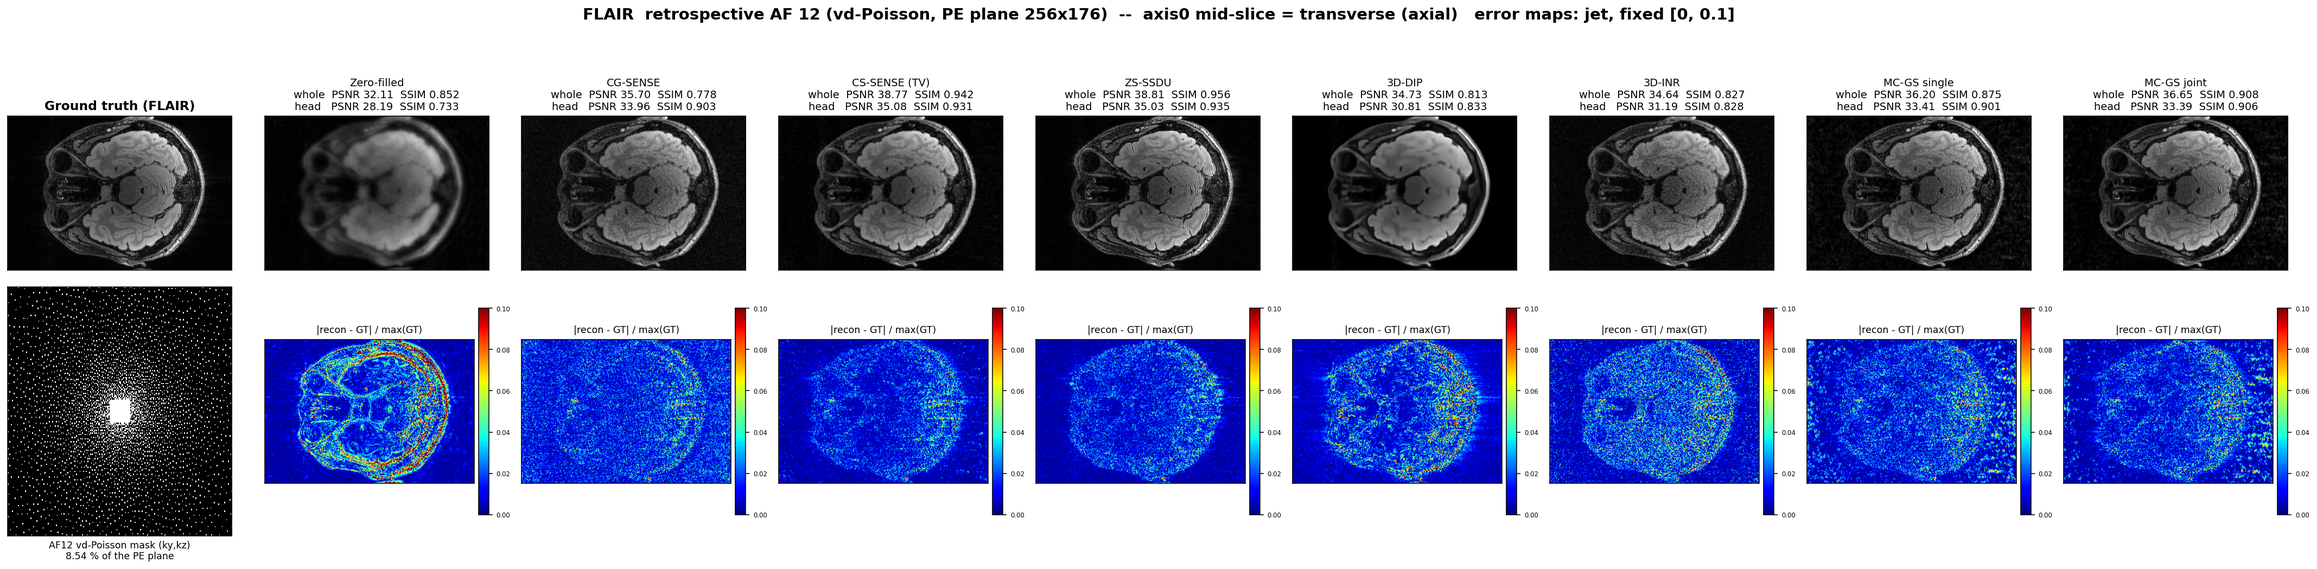
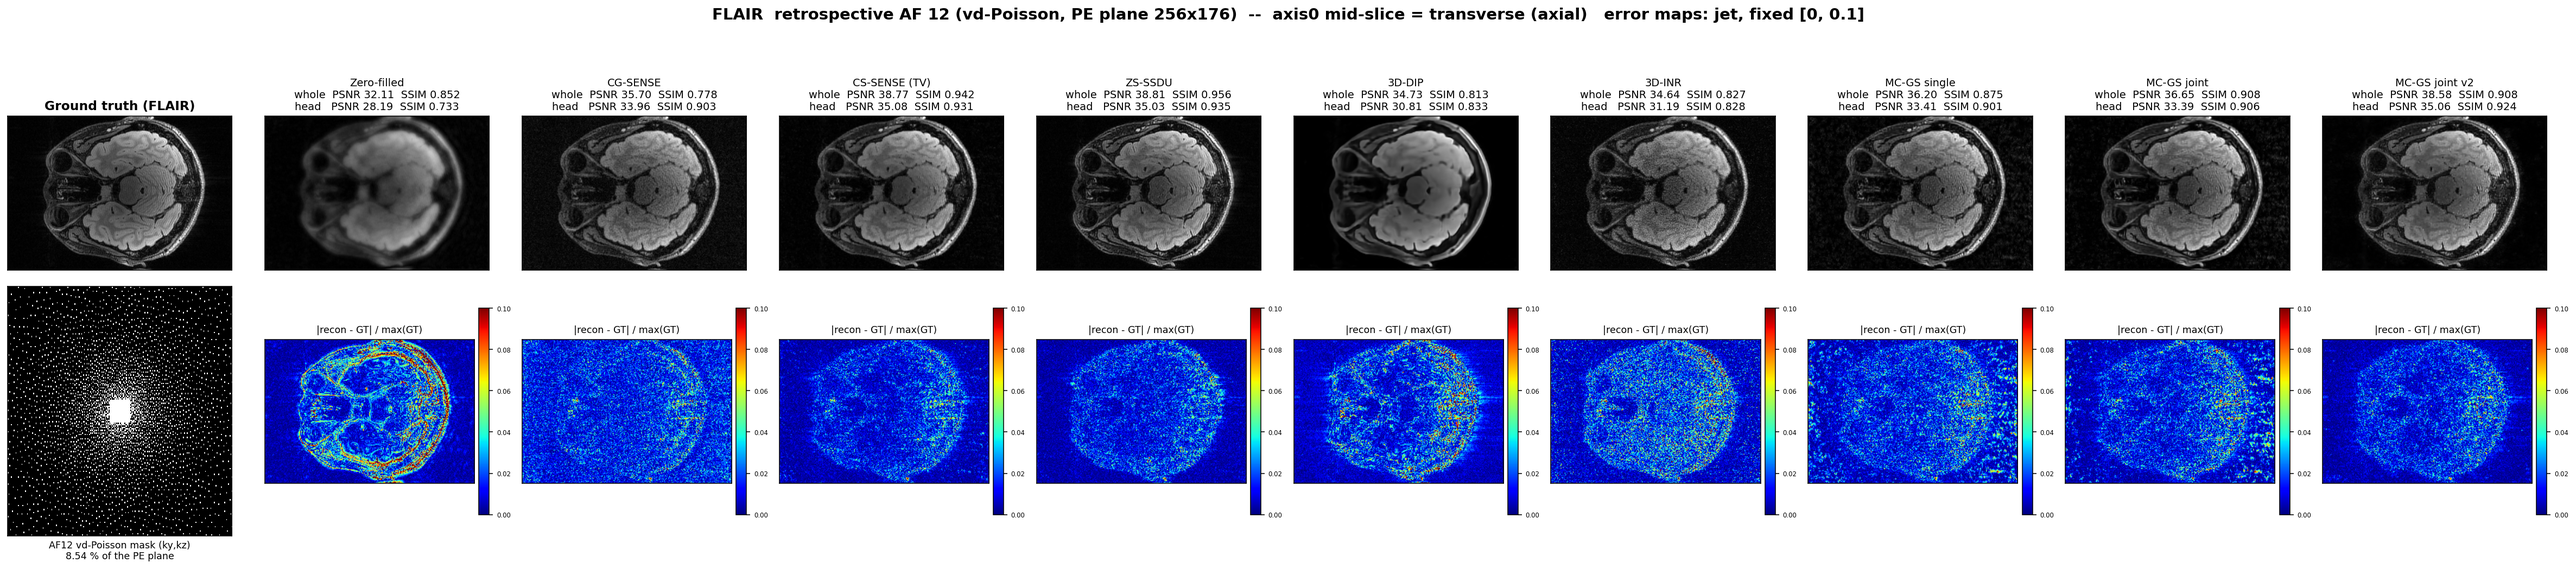
t1flair v3: transfer check of the T1+T2 autoresearch recipe on the held-out subject - second on head PSNR (T1 35.520 vs CS-SENSE 35.762, FLAIR 35.056 vs 35.084), first on head HFEN; density rule pre-registered

diff --git a/t1flair_af12_v3_jiangyizhou/scripts/summarize.py b/t1flair_af12_v3_jiangyizhou/scripts/summarize.py
@@ -18,9 +18,10 @@ ARC = Path("/data0/congcong/code/GS/Paired_ARC_GS_general_framework/results_arc"
 
 COLS = ["psnr", "ssim", "nmse", "hfen", "head_psnr", "head_ssim", "head_hfen",
         "sharp", "grain", "grain_ratio"]
-ORDER = ["zf", "cgsense", "cssense", "zsssdu", "dip", "inr", "gs_single", "gs_joint"]
+ORDER = ["zf", "cgsense", "cssense", "zsssdu", "dip", "inr", "gs_single", "gs_joint", "gs_joint_v2"]
 LABEL = {"zf": "ZF", "cgsense": "CG-SENSE", "cssense": "CS-SENSE", "zsssdu": "ZS-SSDU",
-         "dip": "3D-DIP", "inr": "3D-INR", "gs_single": "MC-GS single", "gs_joint": "MC-GS joint"}
+         "dip": "3D-DIP", "inr": "3D-INR", "gs_single": "MC-GS single", "gs_joint": "MC-GS joint",
+         "gs_joint_v2": "MC-GS joint v2"}
 
 
 def main():
@@ -41,6 +42,13 @@ def main():
         for ch, name in (("plain", d.get("plain_name", "T1")), ("contrast", d.get("contrast_name", "FLAIR"))):
             rows.append({"contrast": name, "method": "gs_joint",
                          **{k: d[ch].get(k) for k in COLS}, "seconds": None})
+    # v2 = autoresearch recipe (framework repo autoresearch_t1t2.md), transfer check, 4000 iters
+    vp = ARC / "ar5_tf_jyz_t1flair_score.json"
+    if vp.exists():
+        d = json.load(open(vp))
+        for ch, name in (("plain", d.get("plain_name", "T1")), ("contrast", d.get("contrast_name", "FLAIR"))):
+            rows.append({"contrast": name, "method": "gs_joint_v2",
+                         **{k: d[ch].get(k) for k in COLS}, "seconds": d.get("elapsed_s")})
     for c in ("T1", "FLAIR"):
         sp = ARC / f"t1flair_v3_af12_single_{c}_score.json"
         if sp.exists():

diff --git a/t1flair_af12_v3_jiangyizhou/scripts/make_figures.py b/t1flair_af12_v3_jiangyizhou/scripts/make_figures.py
@@ -14,7 +14,7 @@ from pathlib import Path
 
 ap = argparse.ArgumentParser()
 ap.add_argument("--contrast", required=True, choices=["T1", "FLAIR"])
-ap.add_argument("--methods", default="zf,cgsense,cssense,zsssdu,dip,inr,gs_single,gs_joint")
+ap.add_argument("--methods", default="zf,cgsense,cssense,zsssdu,dip,inr,gs_single,gs_joint,gs_joint_v2")
 ap.add_argument("--out", default=None)
 args = ap.parse_args()
 
@@ -30,7 +30,7 @@ FIGS.mkdir(parents=True, exist_ok=True)
 ANAT = {0: "transverse (axial)", 1: "coronal", 2: "sagittal"}   # adjudicated 2026-09-09, see README
 LABEL = {"zf": "Zero-filled", "cgsense": "CG-SENSE", "cssense": "CS-SENSE (TV)",
          "zsssdu": "ZS-SSDU", "dip": "3D-DIP", "inr": "3D-INR",
-         "gs_single": "MC-GS single", "gs_joint": "MC-GS joint"}
+         "gs_single": "MC-GS single", "gs_joint": "MC-GS joint", "gs_joint_v2": "MC-GS joint v2"}
 
 
 def load(method, c):

diff --git a/t1flair_af12_v3_jiangyizhou/scripts/extract_gs_volumes.py b/t1flair_af12_v3_jiangyizhou/scripts/extract_gs_volumes.py
@@ -19,7 +19,9 @@ ARC = Path("/data0/congcong/code/GS/Paired_ARC_GS_general_framework/results_arc"
 JOBS = [("t1flair_v3_af12_joint", "gs_joint", [("recT1", "T1"), ("recFL", "FLAIR")],
          [("gtT1", "T1"), ("gtFL", "FLAIR")], [("zfT1", "T1"), ("zfFL", "FLAIR")]),
         ("t1flair_v3_af12_single_T1", "gs_single", [("recT1", "T1")], [], []),
-        ("t1flair_v3_af12_single_FLAIR", "gs_single", [("recT1", "FLAIR")], [], [])]
+        ("t1flair_v3_af12_single_FLAIR", "gs_single", [("recT1", "FLAIR")], [], []),
+        # v2 = the autoresearch recipe found on the T1+T2 pair, applied here UNCHANGED as a transfer check
+        ("ar5_tf_jyz_t1flair", "gs_joint_v2", [("recT1", "T1"), ("recFL", "FLAIR")], [], [])]
 
 
 def main():

diff --git a/t1flair_af12_v3_jiangyizhou/README.md b/t1flair_af12_v3_jiangyizhou/README.md
@@ -28,6 +28,7 @@ whole-volume SSIM misleads on this data).
 |---|---|---|---|---|---|
 | CS-SENSE | **39.395** | 0.9523 | **35.762** | **0.9429** | 2 min |
 | ZS-SSDU | 39.357 | **0.9577** | 35.724 | 0.9422 | 22 min |
+| MC-GS joint v2 (transfer check, see below) | 38.949 | 0.9194 | 35.520 | 0.9321 | 42 min |
 | MC-GS joint | 36.349 | 0.8703 | 34.160 | 0.9169 | 29 min |
 | MC-GS single | 35.529 | 0.8297 | 33.799 | 0.9032 | 29 min |
 | CG-SENSE | 35.082 | 0.7562 | 33.514 | 0.8981 | 2 min |
@@ -40,6 +41,7 @@ whole-volume SSIM misleads on this data).
 | method | PSNR | SSIM | head PSNR | head SSIM | wall |
 |---|---|---|---|---|---|
 | CS-SENSE | 38.773 | 0.9416 | **35.084** | 0.9307 | 2 min |
+| MC-GS joint v2 (transfer check, see below) | 38.584 | 0.9082 | 35.056 | 0.9238 | 42 min |
 | ZS-SSDU | **38.807** | **0.9563** | 35.034 | **0.9353** | 36 min |
 | CG-SENSE | 35.704 | 0.7782 | 33.957 | 0.9032 | 2 min |
 | MC-GS single | 36.204 | 0.8749 | 33.409 | 0.9006 | 29 min |
@@ -88,6 +90,28 @@ suppression by the explicit representation.
 
 Every MC-GS run in all three topics is a cold start (the frozen warm-start cloud belongs to the
 old FOV). That is the one untested lever left for the 1.3 to 1.7 dB gap to CS-SENSE.
+
+## MC-GS joint v2 — the T1+T2 recipe transferred unchanged: second, not first (2026-09-10)
+
+The recipe the autoresearch loop found on huangyuwei's T1+T2 pair (framework repo
+`autoresearch_t1t2.md`; "MC-GS joint v2" in the T1+T2 README: points drawn inside the ZF head
+support, 3-NN spacing scales, edge-TV kappa from the ZF image, 1.2M points) was applied here
+**without changing a knob**, as the held-out-subject check (`ar5_tf_jyz_t1flair`, 4000 iters).
+
+| channel | v2 head PSNR | best other arm | over the original joint arm | v2 head SSIM / best | v2 head HFEN / best |
+|---|---|---|---|---|---|
+| T1 | 35.520 | CS-SENSE 35.762 | +1.36 dB | 0.9321 / 0.9429 | **0.1056** / 0.1208 |
+| FLAIR | 35.056 | CS-SENSE 35.084 | +1.67 dB | 0.9238 / 0.9353 | **0.1063** / 0.1139 |
+
+On this subject the unchanged recipe is **second on head PSNR** (−0.24 dB on T1, −0.03 on
+FLAIR against CS-SENSE), first on head HFEN, behind on head SSIM. On huangyuwei it is first on
+both pairings. One measurable difference between the subjects is the size of the head in the
+FOV: the ZF support covers 42.3 % of the volume here against 32.0 % / 32.7 % on huangyuwei, so
+a fixed 1.2M points is a lower Gaussian density (0.246 vs 0.325 per support voxel), and
+capacity was the lever the T1 channel was most sensitive to. A points-per-support-voxel rule
+fixed on huangyuwei alone (0.325 → 1.59M points here) was pre-registered in the framework
+repo's `autoresearch_t1t2.md` before being run; its outcome is recorded there and, if it
+passes, as a further row here.
 
 ## Regenerating
 
